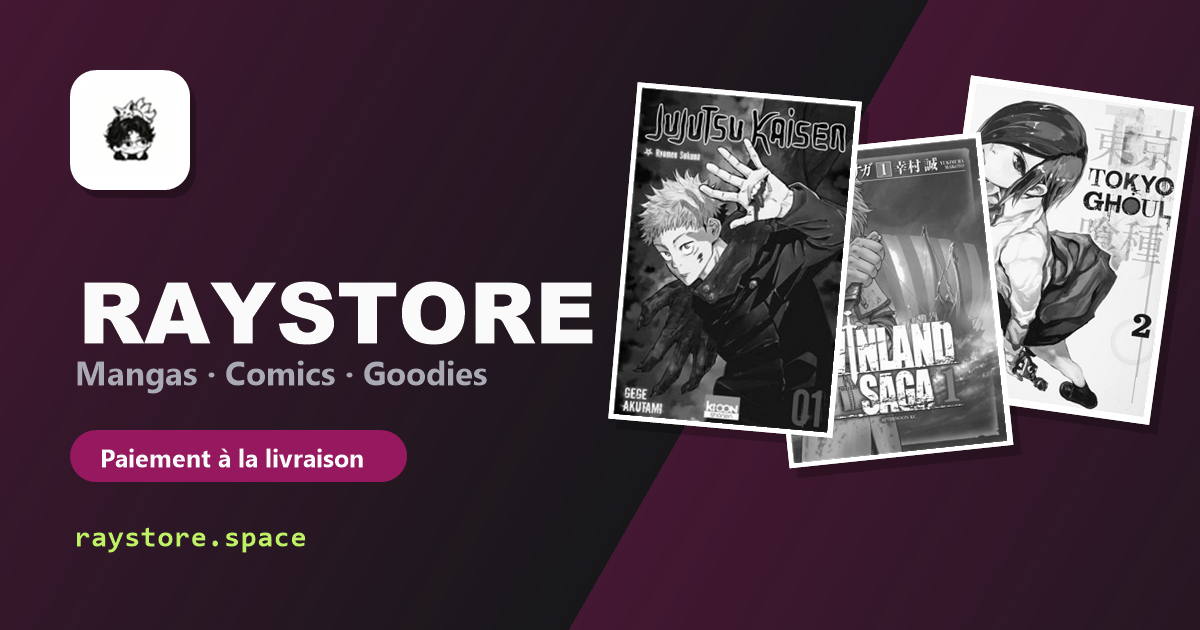
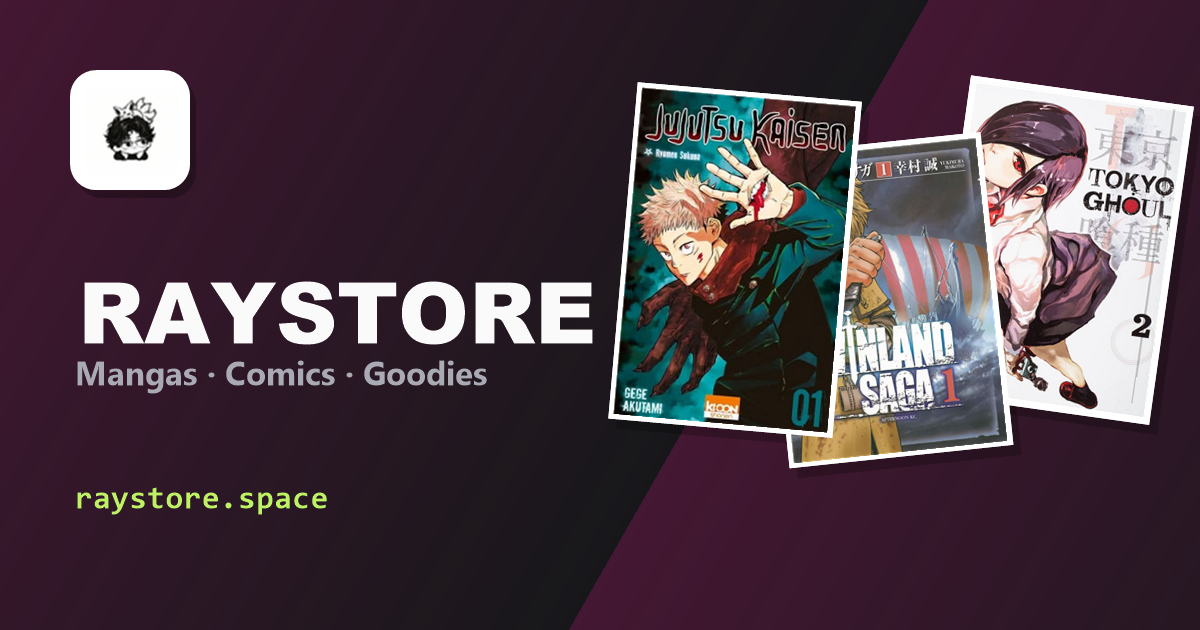
Banniere OG: couleurs, sans pilule paiement

diff --git a/index.html b/index.html
@@ -12,14 +12,14 @@
 <meta property="og:title" content="raystore — Manga, comics, goodies et plus">
 <meta property="og:description" content="RayStore — mangas, comics et goodies en Algérie. Paiement à la livraison, livraison rapide.">
 <meta property="og:url" content="https://raystore.space/">
-<meta property="og:image" content="https://raystore.space/p/og-banner.png?v=2">
+<meta property="og:image" content="https://raystore.space/p/og-banner.png?v=3">
 <meta property="og:image:width" content="1200">
 <meta property="og:image:height" content="630">
 <meta property="og:image:alt" content="RayStore — Mangas, Comics et Goodies">
 <meta name="twitter:card" content="summary_large_image">
 <meta name="twitter:title" content="raystore — Manga, comics, goodies et plus">
 <meta name="twitter:description" content="RayStore — mangas, comics et goodies en Algérie. Paiement à la livraison, livraison rapide.">
-<meta name="twitter:image" content="https://raystore.space/p/og-banner.png?v=2">
+<meta name="twitter:image" content="https://raystore.space/p/og-banner.png?v=3">
 <link rel="canonical" href="https://raystore.space/">
 <script type="application/ld+json">{"@context":"https://schema.org","@type":"WebSite","name":"RayStore","url":"https://raystore.space/"}</script>
 <!--SEO-END-->
